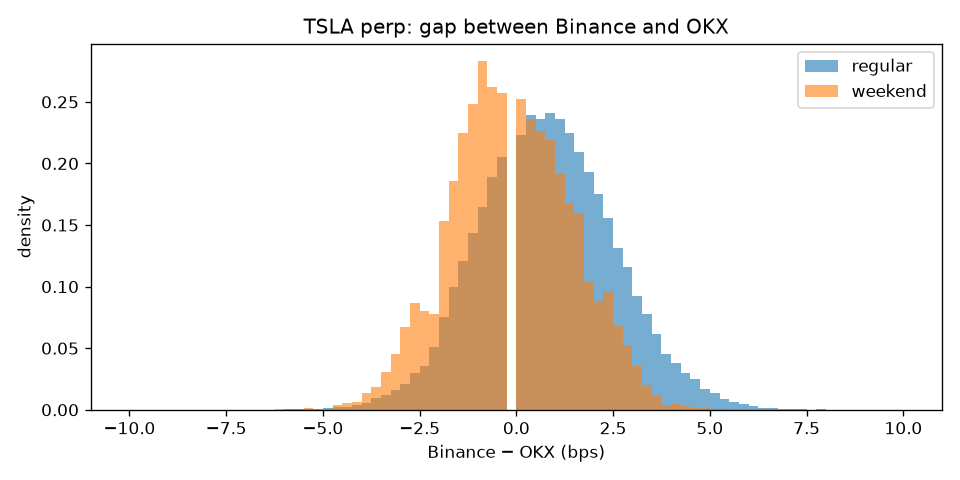
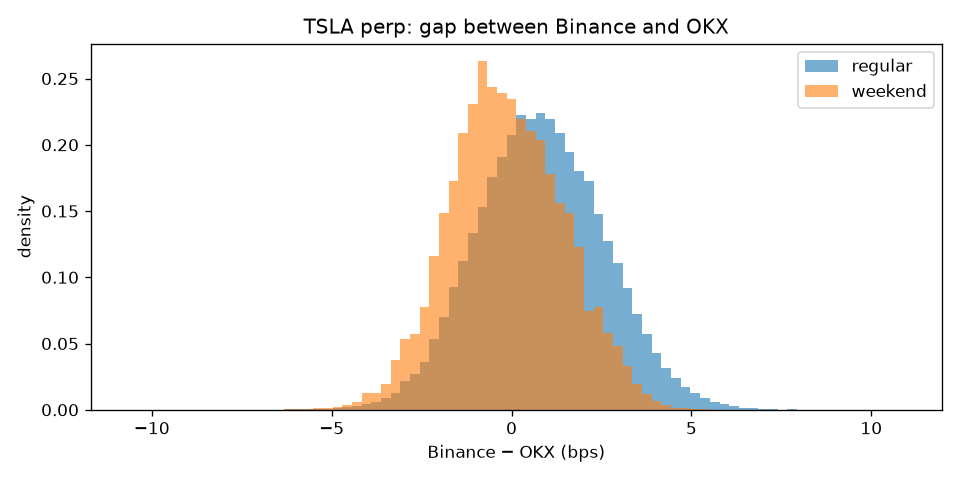
fix: centre gap histogram bins on price ticks
Gaps sit on a ~0.27 bps lattice (0.01 USD tick on TSLA), so 0.25 bps
bins left empty bins, including one at zero.

diff --git a/src/report.py b/src/report.py
@@ -50,8 +50,12 @@ def main() -> None:
     fig, ax = plt.subplots(figsize=(8, 4))
     g = gaps_bps(prices["TSLA"])["binance-okx"]
     sess = session_of(g.index)
+    # Gaps sit on a lattice of price ticks (0.01 USD ≈ 0.27 bps for TSLA), so
+    # bins are centred on tick multiples to avoid empty bins.
+    tick_bps = 1e4 * 0.01 / prices["TSLA"]["binance"].median()
+    edges = (np.arange(-40, 41) + 0.5) * tick_bps
     for name in ("regular", "weekend"):
-        ax.hist(g[sess == name].dropna(), bins=np.arange(-10, 10.25, 0.25), alpha=0.6, density=True, label=name)
+        ax.hist(g[sess == name].dropna(), bins=edges, alpha=0.6, density=True, label=name)
     ax.set(xlabel="Binance − OKX (bps)", ylabel="density", title="TSLA perp: gap between Binance and OKX")
     ax.legend()
     fig.tight_layout()
